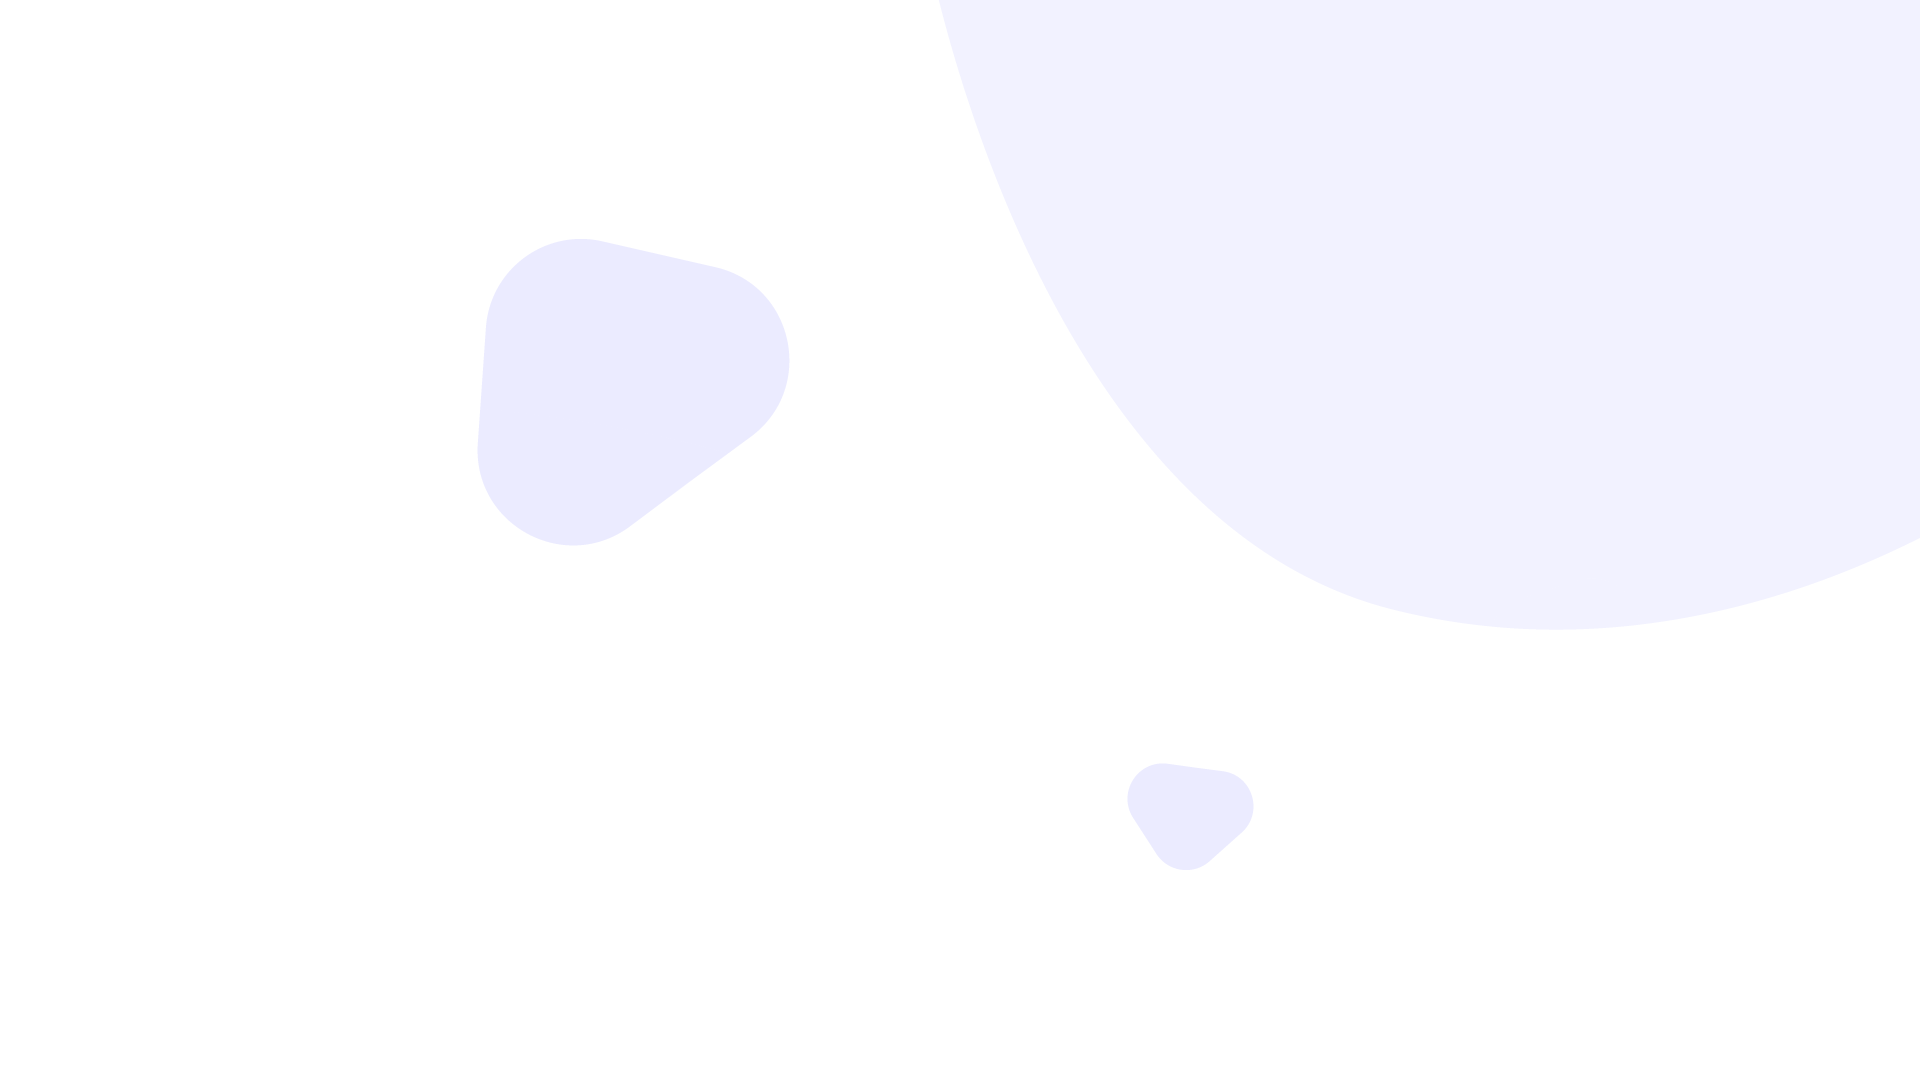
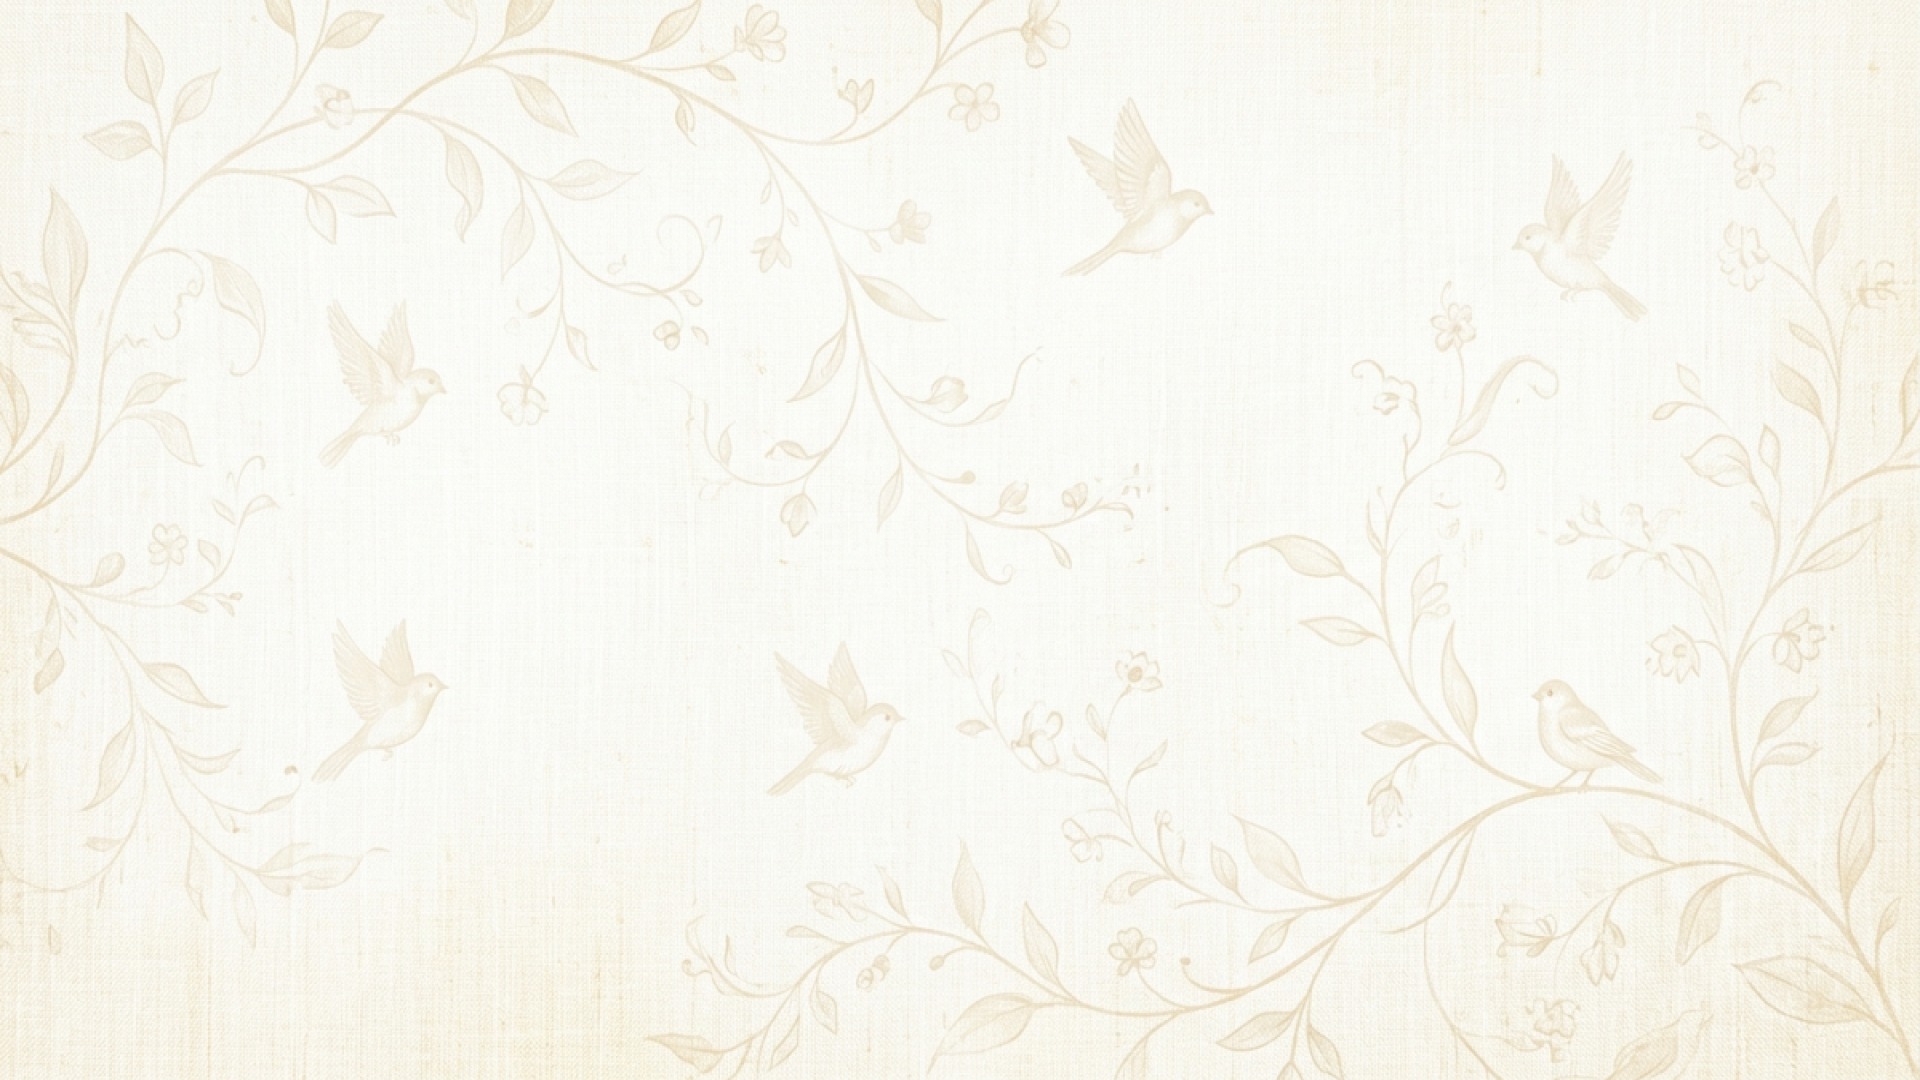
Homepage BG Update

diff --git a/app/lib/content/core/registry.ts b/app/lib/content/core/registry.ts
@@ -126,8 +126,10 @@ export const CONTENT_REGISTRY = {
     "humayun-rachanabali": "হুমায়ূন রচনাবলী",
     "himu-samagra": "হিমু সমগ্র",
     "misir-ali-omnibus": "মিসির আলী অমনিবাস",
+    "zahir-raihan-rachanabali": "জহির রায়হান রচনাবলী",
+    "sukanta-samagra": "সুকান্ত সমগ্র",
 
-    
+
   } as Record<string, string>,
 
   // English Slug -> Bengali Value

diff --git a/content/books/zahir-raihan/hazar-bochor-dhore/index.md b/content/books/zahir-raihan/hazar-bochor-dhore/index.md
@@ -16,6 +16,9 @@ genre_links:
   - { name: "উপন্যাস", link: "/genre/novel" }
   - { name: "সামাজিক উপন্যাস", link: "/genre/social-novel" }
 
+series: "জহির রায়হান রচনাবলী"
+series_link: "/series/zahir-raihan-rachanabali"
+
 cover_image: "/cover/hazar-bochor-dhore.webp"
 
 meta_description: "জহির রায়হানের কালজয়ী সামাজিক উপন্যাস 'হাজার বছর ধরে' গ্রামীণ বাংলার সমাজব্যবস্থা, কুসংস্কার, নারীর অবস্থান, প্রেম, মানবিক সম্পর্ক এবং চিরন্তন জীবনপ্রবাহের এক অসাধারণ শিল্পরূপ।"
@@ -37,9 +40,7 @@ tags:
 notice: "এই পাতাটি মূলগ্রন্থের অংশ নয়; এটি জহির রায়হান রচিত 'হাজার বছর ধরে' উপন্যাসের পরিচিতি, প্রকাশনা-ইতিহাস ও সাহিত্যিক মূল্যায়ন।"
 
 source_book: "জহির রায়হান রচনাবলী এবং 'হাজার বছর ধরে' উপন্যাসের প্রামাণ্য সংস্করণ"
-
 ---
-
 
 <p class="dcap">হাজার বছর ধরে প্রখ্যাত বাংলাদেশি ঔপন্যাসিক, সাংবাদিক ও চলচ্চিত্রকার জহির রায়হান রচিত বাংলা সাহিত্যের অন্যতম শ্রেষ্ঠ সামাজিক উপন্যাস। উপন্যাসটি প্রথম প্রকাশিত হয় ১৯৬৪ সালে এবং প্রকাশের পরপরই পাঠকমহলে ব্যাপক সমাদৃত হয়। একই বছর এ গ্রন্থের জন্য জহির রায়হান আদমজী সাহিত্য পুরস্কার লাভ করেন। গ্রামীণ বাংলার সামাজিক বাস্তবতা, কুসংস্কার, নারীর অবস্থান, প্রেম, মানবিক সম্পর্ক এবং চিরন্তন জীবনপ্রবাহের অসাধারণ শিল্পরূপের জন্য উপন্যাসটি বাংলা কথাসাহিত্যে একটি কালজয়ী সৃষ্টি হিসেবে স্বীকৃত।</p>
 <p class="normal">উপন্যাসটির পটভূমি পূর্ববাংলার একটি প্রত্যন্ত গ্রাম, যার কেন্দ্রস্থলে রয়েছে রহস্যময় পরীর দীঘি। লোককথা, পুঁথিপাঠ, বিশ্বাস-অবিশ্বাস, ধর্মীয় রক্ষণশীলতা এবং শতাব্দীপ্রাচীন সামাজিক রীতিনীতির আবহে গড়ে ওঠা এই গ্রাম যেন হাজার বছরের অপরিবর্তিত বাংলার প্রতীক। প্রকৃতি এখানে প্রতিনিয়ত নবীন হয়ে ওঠে—নদী বয়ে যায়, ঋতু বদলায়, ফুল ফোটে, পাখি গান গায়—কিন্তু মানুষের মানসিকতা ও সামাজিক কাঠামো যেন যুগের পর যুগ একই জায়গায় স্থির হয়ে আছে।</p>

diff --git a/content/books/sukanta/chharhpatra/index.md b/content/books/sukanta/chharhpatra/index.md
@@ -14,6 +14,9 @@ genre:
 genre_links:
   - { name: "স্মৃতিকথা", link: "/genre/memoir" }
 
+series: "সুকান্ত সমগ্র"
+series_link: "/series/sukanta-samagra"
+
 cover_image: "/cover/babornama.webp"
 
 meta_description: "জসীম উদ্দীনের স্মৃতিকথামূলক গদ্যগ্রন্থ ‘ঠাকুরবাড়ির আঙিনায়’। রবীন্দ্রনাথ ঠাকুর, অবনীন্দ্রনাথ ঠাকুর এবং ঠাকুর পরিবারের অন্যান্য সদস্যদের সঙ্গে লেখকের পরিচয়, সাক্ষাৎ ও সান্নিধ্যের স্মৃতি এই গ্রন্থের প্রধান বিষয়। ব্যক্তিগত স্মৃতির পাশাপাশি তৎকালীন সাহিত্যিক ও সাংস্কৃতিক পরিবেশেরও একটি জীবন্ত চিত্র এতে ফুটে উঠেছে।"

diff --git a/content/books/sukanta/ghum-nei/index.md b/content/books/sukanta/ghum-nei/index.md
@@ -14,6 +14,9 @@ genre:
 genre_links:
   - { name: "স্মৃতিকথা", link: "/genre/memoir" }
 
+series: "সুকান্ত সমগ্র"
+series_link: "/series/sukanta-samagra"
+
 cover_image: "/cover/babornama.webp"
 
 meta_description: "জসীম উদ্দীনের স্মৃতিকথামূলক গদ্যগ্রন্থ ‘ঠাকুরবাড়ির আঙিনায়’। রবীন্দ্রনাথ ঠাকুর, অবনীন্দ্রনাথ ঠাকুর এবং ঠাকুর পরিবারের অন্যান্য সদস্যদের সঙ্গে লেখকের পরিচয়, সাক্ষাৎ ও সান্নিধ্যের স্মৃতি এই গ্রন্থের প্রধান বিষয়। ব্যক্তিগত স্মৃতির পাশাপাশি তৎকালীন সাহিত্যিক ও সাংস্কৃতিক পরিবেশেরও একটি জীবন্ত চিত্র এতে ফুটে উঠেছে।"

diff --git a/content/books/zahir-raihan/the-girl-of-the-evening-light/index.md b/content/books/zahir-raihan/the-girl-of-the-evening-light/index.md
@@ -16,6 +16,9 @@ genre_links:
   - { name: "উপন্যাস", link: "/genre/novel" }
   - { name: "রোমান্টিক উপন্যাস", link: "/genre/romantic-novel" }
 
+series: "জহির রায়হান রচনাবলী"
+series_link: "/series/zahir-raihan-rachanabali"
+
 cover_image: "/cover/the-girl-of-the-evening-light.webp"
 
 meta_description: "জহির রায়হানের ‘শেষ বিকেলের মেয়ে’ প্রেম, মানবিক সম্পর্ক, স্বপ্ন, আবেগ ও মধ্যবিত্ত জীবনের টানাপোড়েন নিয়ে রচিত তাঁর অন্যতম জনপ্রিয় রোমান্টিক উপন্যাস।"
